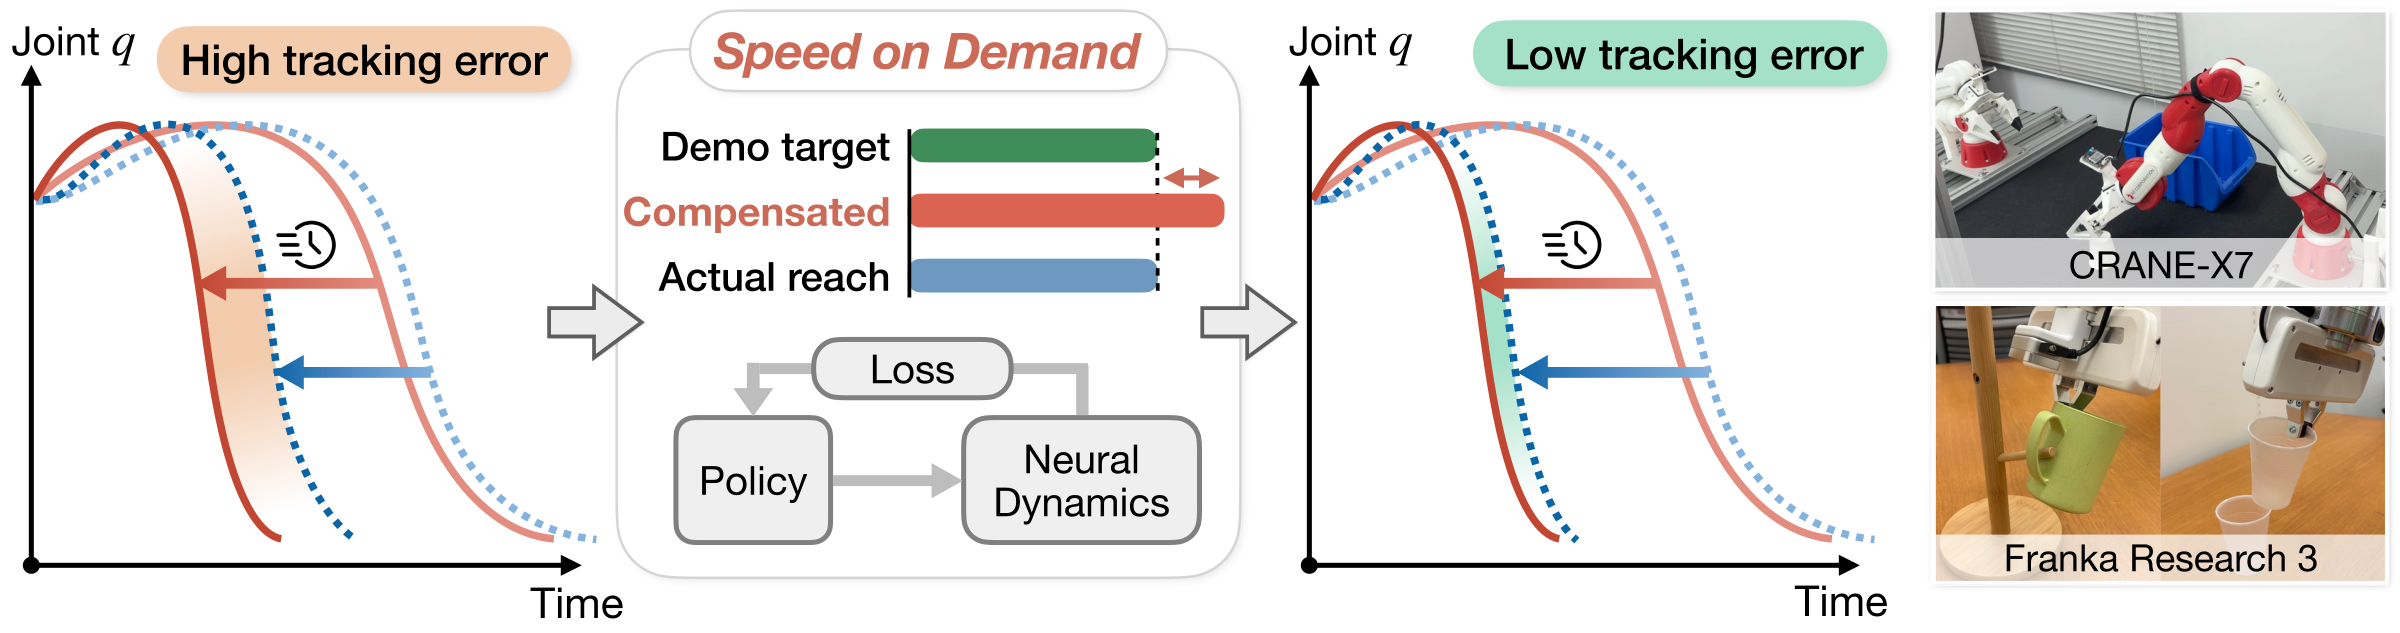
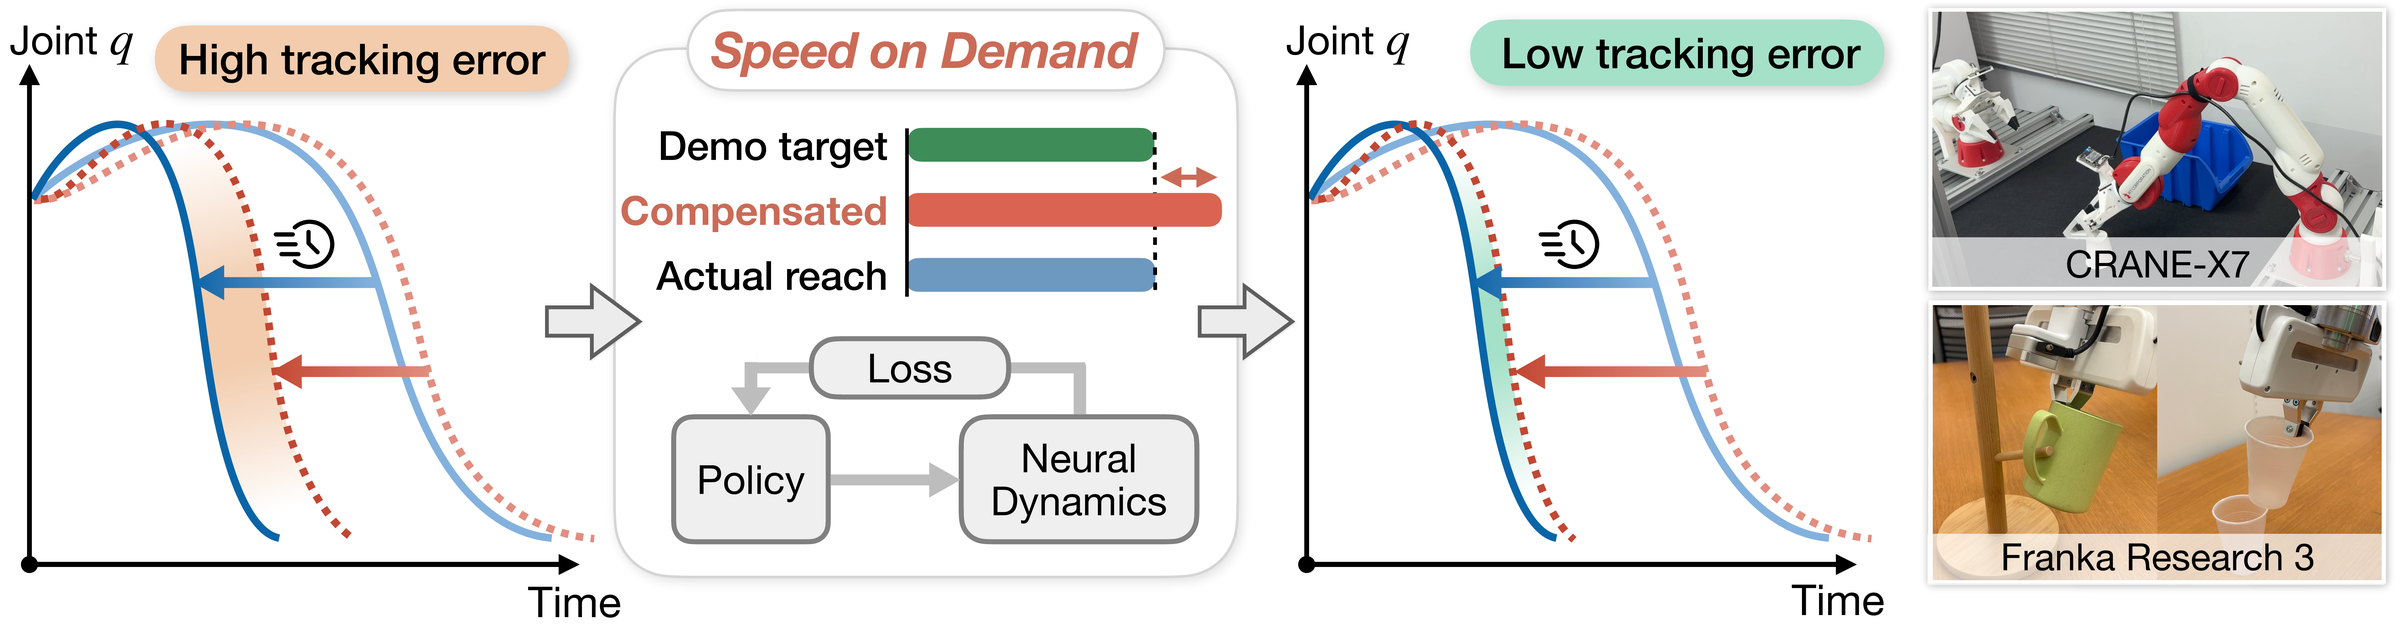
style: update teaser image and remove placeholder results section

diff --git a/index.html b/index.html
@@ -58,7 +58,7 @@
 <section class="hero teaser">
   <div class="container is-max-desktop">
     <div class="hero-body">
-      <img src="./static/images/teaser.png?v=2" alt="Speed on Demand teaser" style="width: 100%;">
+      <img src="./static/images/teaser.png?v=3" alt="Speed on Demand teaser" style="width: 100%;">
       <div class="content has-text-justified">
         <p>
           <b>Left</b>: naively sending action commands faster results in an increased tracking error
@@ -159,23 +159,6 @@
       </div>
     </div>
     <!--/ Method. -->
-  </div>
-</section>
-
-<section class="section">
-  <div class="container is-max-desktop">
-    <!-- Results. -->
-    <div class="columns is-centered has-text-centered">
-      <div class="column is-full-width">
-        <h2 class="title is-3">Results</h2>
-        <div class="content has-text-justified">
-          <p>
-            TODO: results.
-          </p>
-        </div>
-      </div>
-    </div>
-    <!--/ Results. -->
   </div>
 </section>
 
